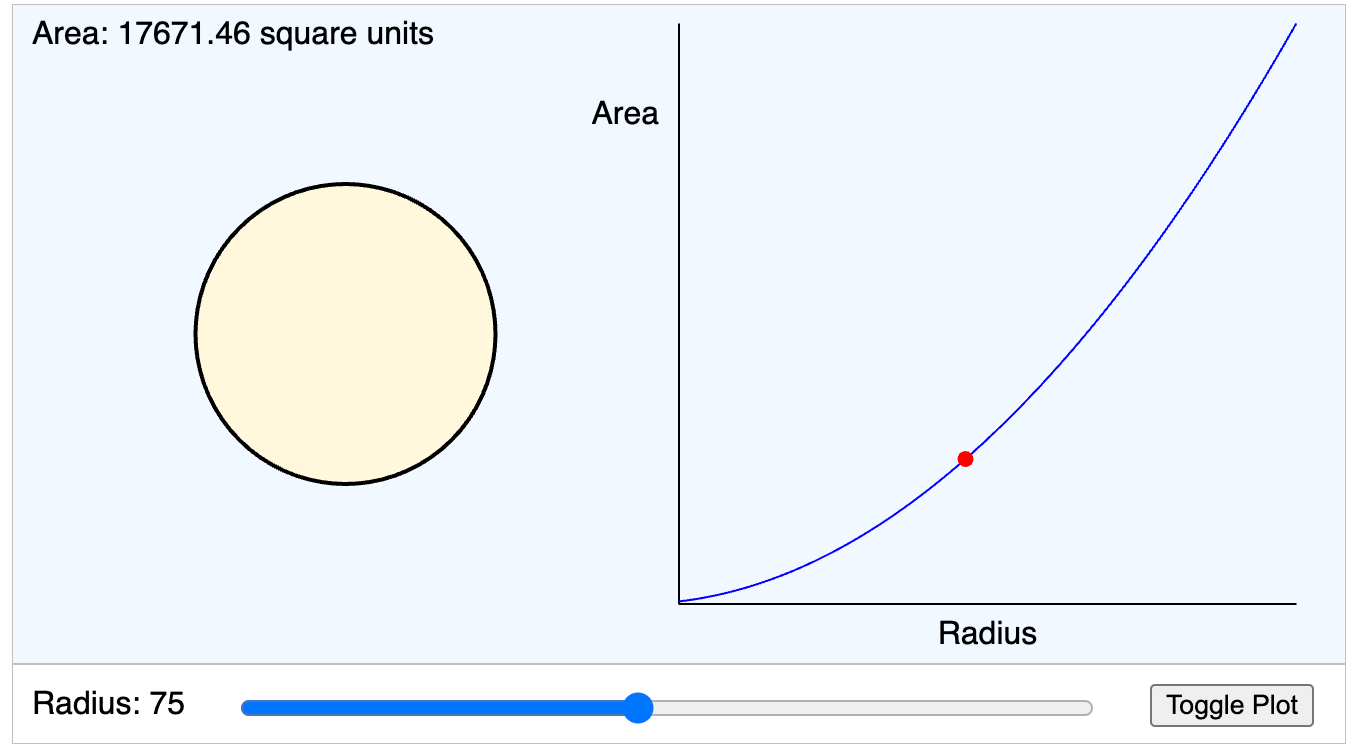
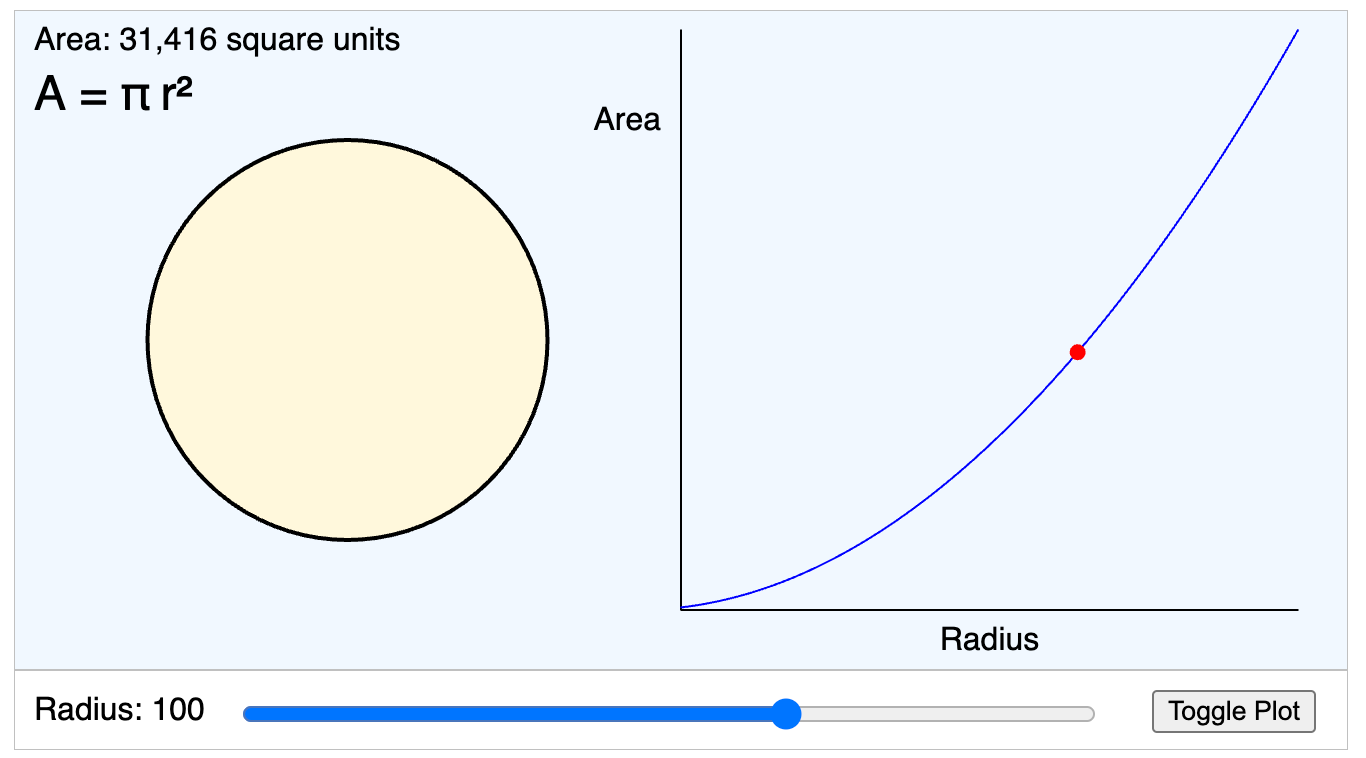
updating content

diff --git a/docs/sims/circle-area-explorer/circle-area-explorer.js b/docs/sims/circle-area-explorer/circle-area-explorer.js
@@ -33,7 +33,8 @@ function setup() {
   circleY = drawHeight / 2;
 
   // Create slider for radius control
-  radiusSlider = createSlider(10, 150, 75, 1);
+  // range from 10 to 150 with a default of 100 and a step of 1
+  radiusSlider = createSlider(10, 150, 100, 1);
   radiusSlider.position(sliderLeftMargin, drawHeight + 20);
   radiusSlider.size(canvasWidth - sliderLeftMargin - 120);
 
@@ -81,8 +82,18 @@ function draw() {
   fill('black');
   textSize(defaultTextSize);
   textAlign(LEFT);
+
   // text(`Radius: ${radius} units`, 10, 20);
-  text(`Area: ${area.toFixed(2)} square units`, 10, 20);
+  // Format without fraction digits
+  const formattedArea = area.toLocaleString('en-US', {
+    minimumFractionDigits: 0,
+    maximumFractionDigits: 0
+  });
+  text(`Area: ${formattedArea} square units`, 10, 20);
+
+  // Add the Formula
+  textSize(24);
+  text("A = π r²", 10, 50)
 
   // Draw graph if toggled on
   if (showGraph) {
@@ -110,11 +121,13 @@ function drawGraph(radius) {
 
   // Labels
   fill('black');
+  textSize(16);
   noStroke();
   textAlign(CENTER);
   text("Radius", graphOriginX + graphWidth / 2, graphOriginY + 20);
   textAlign(RIGHT);
   text("Area", graphOriginX - 10, graphOriginY - graphHeight + 50);
+  
 
   // Plot radius vs area
   stroke('blue');

diff --git a/docs/sims/circle-area-explorer/circle-area-explorer.html b/docs/sims/circle-area-explorer/circle-area-explorer.html
@@ -2,6 +2,12 @@
 <html lang="en">
 <head>
     <meta charset="UTF-8">
+    <meta property="og:title" content="Circle Area Explorer" />
+    <meta property="og:description" content="A MicroSim that demonstrates the visualization of the area of a circle using p5.js.  Users move a slider to change the radius of a circle and see how that change impacts the area of a circle.  A plot shows the square law of the area of a circle formula." />
+    <meta property="og:image" content="https://dmccreary.github.io/geometry-course/sims/pythagorean-theorem/circle-area-explorer.png" />
+    <meta property="og:url" content="https://dmccreary.github.io/geometry-course/sims/pythagorean-theorem/circle-area-explorer.html" />
+    <meta property="og:type" content="website" />
+    
     <title># Circle Area Explorer MicroSim for p5.js 2D geometry 1.11.1</title>
     <!-- adjust as new versions of p5.js come out -->
     <script src="https://cdnjs.cloudflare.com/ajax/libs/p5.js/1.11.1/p5.js"></script>
